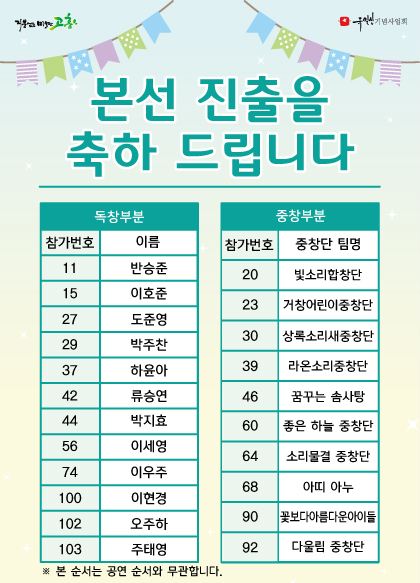
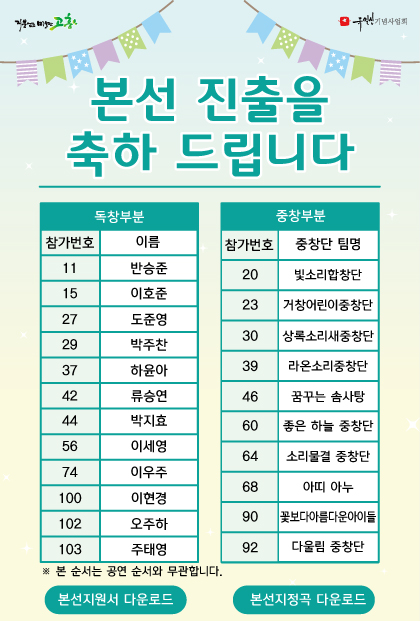
ㅡㅡ

diff --git a/public/popup.html b/public/popup.html
@@ -1,3 +1,26 @@
-<img src="images/1.png" style="display: inline; border: 0; float: left;">
+<!doctype html>
+<html lang="ko">
+    <style>
+        html, body {
+            overflow: hidden;
+            margin: 0;
+            padding: 0;
+        }
+        p {
+            margin: 0;
+            padding: 0;
+        }
+    </style>
+    <body>
+        <p><img src="images/1.png" width="420px" height="621px;" border="0" usemap="#ImageMap1"></p>
+        <map name="ImageMap1">
+            <area shape="rect" coords="44, 585, 187, 615"  href="#" onclick="javascript:opener.location.href='http://mokilsin.or.kr/content/20?board_key=notice';self.close();">
+            <area shape="rect" coords="233, 585, 375, 615"  href="#" onclick="javascript:opener.location.href='http://mokilsin.or.kr/mokilsin/list_akbo';self.close();">
+        </map>
+    </body>
+</html>
+
+<!--
 <a href="#" onclick="javascript:opener.location.href='http://mokilsin.or.kr/content/20?board_key=notice';self.close();"><img src="images/2.png" style="display: inline; border: 0; float: left;"></a>
 <a href="#" onclick="javascript:opener.location.href='http://mokilsin.or.kr/mokilsin/list_akbo';self.close();"><img src="images/3.png" style="display: inline; border: 0; float: left;"></a>
+-->

diff --git a/application/modules/main/views/base/index.php b/application/modules/main/views/base/index.php
@@ -1,6 +1,6 @@
 
 <script>
-    window.open('http://mokilsin.or.kr/public/popup.html', 'popup01', 'width=436, height=629, scrollbars= 0, toolbar=0, menubar=no');
+    window.open('http://mokilsin.or.kr/public/popup.html', 'popup01', 'width=420, height=621, scrollbars= 0, toolbar=0, menubar=no');
 </script>
 
 <!-- visual -->
